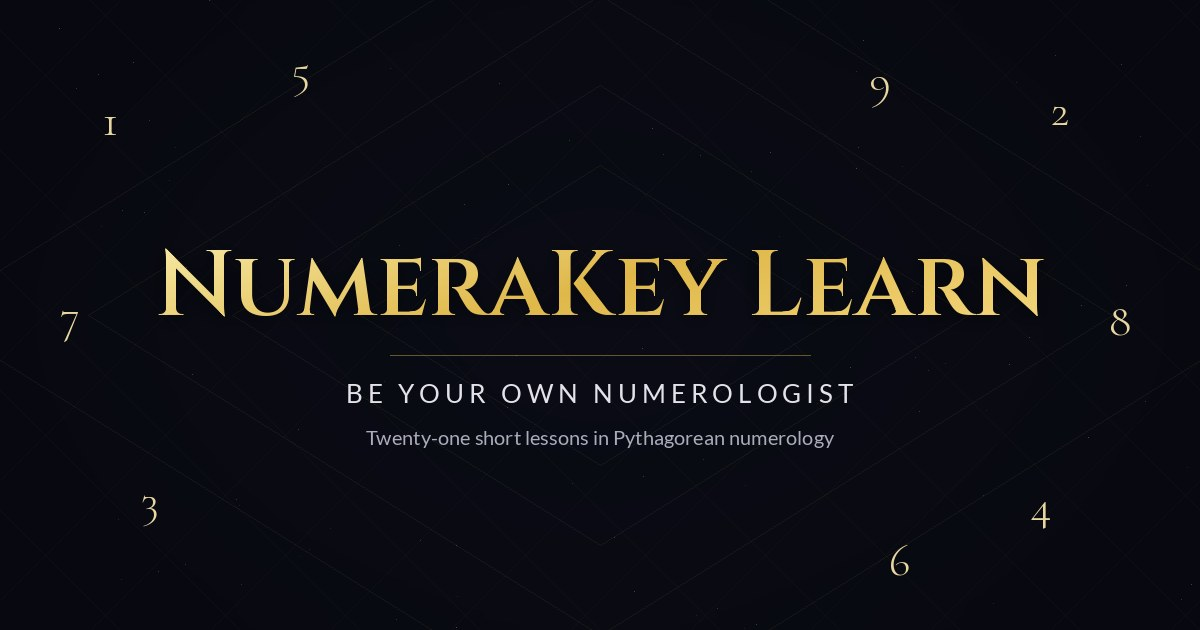
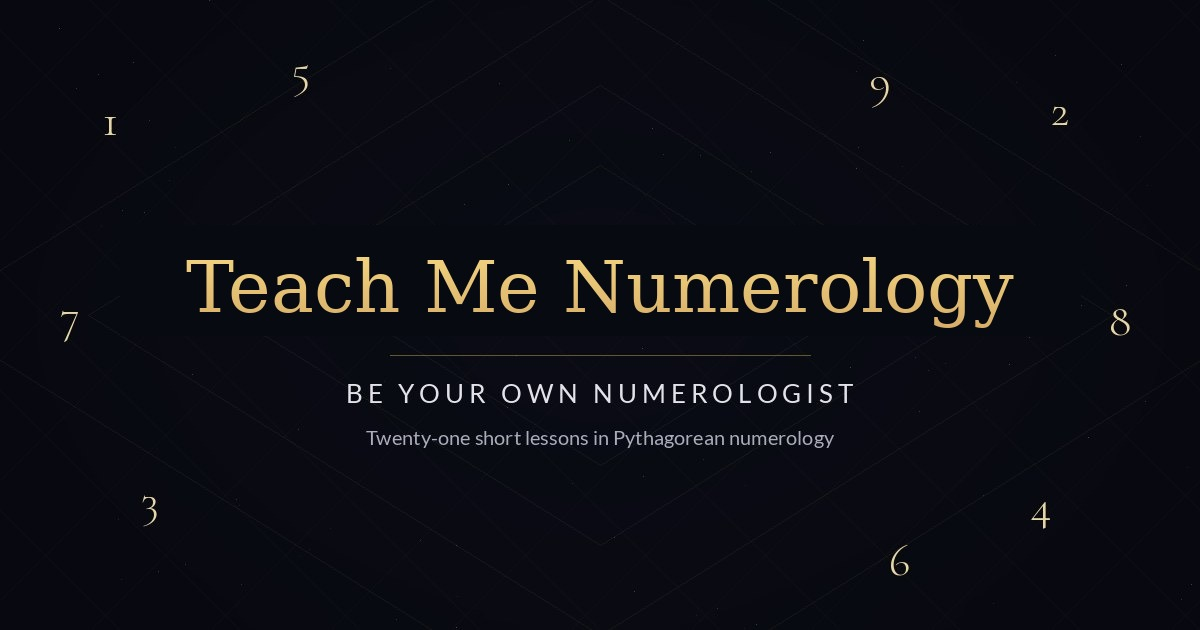
Rename NumeraKey Learn to Teach Me Numerology (listing, cover, app title)
Claude-Session: https://claude.ai/code/session_016PxoXTaya4rQat4E9bq794

Changed region(s): [[0.1233, 0.3921, 0.8633, 0.5429]]

diff --git a/s5c.js b/s5c.js
@@ -7,7 +7,7 @@ APPS.push({ slug:"heres-what-i-want-for-them", name:"Here's What I Want for Them
 APPS.push({ slug:"money-jar", name:"Money Jar", cat:"family", price:59, status:"live", ready:true, cover:"covers/money-jar.jpg", demo:"https://numerakey-shop.vercel.app/demos/money-jar/", desc:"A family pocket-money app where every child's earnings fill their own jar, sorted into spend, save and give.", tag:"Spend. Save. Give.", body:["Money Jar gives each child a jar that fills with gold coins as they earn. Everything they get is sorted into three jars — spend, save and give — so the habit of splitting money starts early, and you set the split percentages yourself.","Add jobs with a dollar amount for the kids to do, tap quick-add buttons for allowance and bonuses, and let family send gifts at birthdays and Christmas. Children set their own savings goals, watch the jar rise towards them, and see a record of what they have done. It all runs from one file, works offline, and stays on your device."], inside:["A jar for every child, filling with gold coins","Spend, save and give split, with percentages you set","Jobs with a dollar value and a deadline","Quick-add buttons for allowance and bonuses","Savings goals the kids choose themselves","Family gifts for birthdays and Christmas","Streaks and a record of completed jobs","Works offline, one file, no account"] });
 APPS.push({ slug:"digital-creation", name:"Digital Creation For Scaredy Cats", cat:"learn", price:29, status:"live", ready:true, cover:"covers/digital-creation.jpg", demo:"https://numerakey-shop.vercel.app/demos/digital-creation/", desc:"A gentle guide for nervous beginners to making pictures, videos and more with AI, with a dry-witted cat for company.", tag:"How hard could it be?", body:["Digital Creation For Scaredy Cats is for anyone who has heard about AI, wondered if they would break it, and quietly closed the tab. Five short lessons walk you through saying hello, making a picture, making a video and more, in the AI app you already have. Nothing is made inside this app. It teaches you, and you do the real thing in your own AI app.","A Russian blue cat guides you, dry and teasing and on your side. Every lesson has copy-and-paste prompts with the bits to swap for your own, a tick-off when you have done it, and a When it goes wrong page for the moments it does not behave. Then comes a library of ready-made prompts for photos, family and fun, writing and letters, everyday life, learning, and money and admin. It runs from one file, works offline, and what you tick off stays on your device."], inside:["Five short lessons, each done in your own AI app","Copy-and-paste prompts with the bits to swap highlighted","A cat guide who is dry, teasing and kind","Things you didn't know you could ask: six groups of ready-made prompts","A likeness tip for photos that come back not looking like them","A When it goes wrong page","Works offline, one file, no account"] });
 APPS.push({ slug:"currency-converter", name:"Currency Converter", cat:"money", price:39, status:"live", ready:true, cover:"covers/currency-converter.jpg", demo:"https://convert-this-thanks.netlify.app", desc:"A clean currency converter with live exchange rates that keeps working offline.", tag:"Live rates. Works offline.", body:["Currency Converter does one job and does it well. Type an amount, pick two currencies, and see the answer straight away, along with the rate it used. Swap the two with one tap, or pick any of eight common currencies from the quick view to compare.","It fetches live exchange rates whenever you are online and saves the latest set on your device, so it still works on a plane or without signal. It covers 38 currencies, remembers what you last used, and runs from one file with no account. Rates are indicative mid-market rates and may differ from your bank's."], inside:["38 currencies, including AUD, USD, EUR, GBP, NZD and JPY","Live exchange rates, saved for offline use","One-tap swap between the two currencies","Quick view of your amount in eight common currencies","Remembers your last amount and currencies","Install it like an app, one file, no account"] });
-APPS.push({ slug:"numerakey-learn", name:"NumeraKey Learn", cat:"divine", price:79, status:"live", ready:true, cover:"covers/numerakey-learn.jpg", demo:"https://numerakey-learn-demo.vercel.app", desc:"A short course in Pythagorean numerology — twenty-one lessons, each with a worked example and a check.", tag:"Be your own numerologist.", body:["NumeraKey Learn teaches you to work out a chart yourself instead of taking a calculator's word for it. Twenty-one short lessons in three levels: the core chart (Life Path, Birthday, Expression), the name (Soul Urge, Personality, Maturity, name changes and karmic debt), and cycles and care (Personal Year and Month, compatibility without ranking, and how to give a reading without overclaiming).","Every lesson has a worked example and a few practice questions, and the Chart Lab shows the full working for any date and name — month, day and year reduced separately, with 11 and 22 kept. A 1 to 9 reference gives each number one strength and one shadow. Your progress is kept on your own device."], inside:["Twenty-one lessons in three levels","A worked example and practice check in every lesson","Life Path, Birthday, Expression, Soul Urge, Personality and Maturity","Personal Year, Personal Month and compatibility","Chart Lab that shows the working, masters 11 and 22 kept","A 1 to 9 reference, strength and shadow","Progress kept on your device","Works offline, one file, no account"] });
+APPS.push({ slug:"numerakey-learn", name:"Teach Me Numerology", cat:"divine", price:79, status:"live", ready:true, cover:"covers/numerakey-learn.jpg", demo:"https://numerakey-learn-demo.vercel.app", desc:"A short course in Pythagorean numerology — twenty-one lessons, each with a worked example and a check.", tag:"Be your own numerologist.", body:["Teach Me Numerology teaches you to work out a chart yourself instead of taking a calculator's word for it. Twenty-one short lessons in three levels: the core chart (Life Path, Birthday, Expression), the name (Soul Urge, Personality, Maturity, name changes and karmic debt), and cycles and care (Personal Year and Month, compatibility without ranking, and how to give a reading without overclaiming).","Every lesson has a worked example and a few practice questions, and the Chart Lab shows the full working for any date and name — month, day and year reduced separately, with 11 and 22 kept. A 1 to 9 reference gives each number one strength and one shadow. Your progress is kept on your own device."], inside:["Twenty-one lessons in three levels","A worked example and practice check in every lesson","Life Path, Birthday, Expression, Soul Urge, Personality and Maturity","Personal Year, Personal Month and compatibility","Chart Lab that shows the working, masters 11 and 22 kept","A 1 to 9 reference, strength and shadow","Progress kept on your device","Works offline, one file, no account"] });
 APPS.push({ slug:"clearscan", name:"Still House", cat:"general", price:29, status:"live", ready:true, cover:"covers/clearscan.jpg", demo:"https://numerakey-shop.vercel.app/demos/clearscan/", desc:"A QR and barcode reader that stays on your phone — scan, save, and make your own codes.", tag:"Scan it. Keep it. Nothing leaves your phone.", body:["Still House reads QR codes and barcodes with your phone's camera, or from a photo already in your gallery. It tells you what each code is — a link, Wi-Fi details, a contact, a phone number, an email, a map point or plain text — so you know before you open anything.","Every scan is kept in a history on your phone that you can search and clear whenever you like, and the Create tab turns text or a link into a QR code you can download or copy. One HTML file, works offline, no account and nothing uploaded."], inside:["Camera scanning plus scan from a photo","Torch button for dim rooms","Recognises links, Wi-Fi, contacts, phone, email, maps and text","Reads QR and most common barcode formats","Searchable history kept on your device only","Create your own QR codes to download or copy","Works offline, one HTML file, buy once"] });
 artFor(APPS[APPS.length - 1]).motif = "spokes";
 

diff --git a/private/numerakey-learn.html b/private/numerakey-learn.html
@@ -4,7 +4,7 @@
 <meta charset="utf-8">
 <meta name="viewport" content="width=device-width, initial-scale=1, viewport-fit=cover">
 <meta name="theme-color" content="#12141a">
-<title>NumeraKey Learn — Be Your Own Numerologist</title>
+<title>Teach Me Numerology — Be Your Own Numerologist</title>
 <style>
   :root {
     --bg: #12141a;
